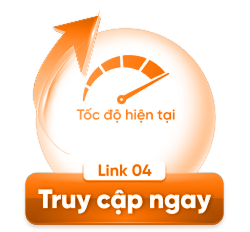
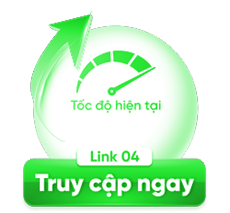
first commit

diff --git a/index.html b/index.html
@@ -5,8 +5,8 @@
     <meta charset="UTF-8">
     <meta name="viewport"
         content="width=device-width, initial-scale=1.0, maximum-scale=1.0, user-scalable=no, viewport-fit=cover">
-    <title>TRUNG TÂM CHUYỂN ĐỔI LINK</title>
-    <link rel="icon" type="image/svg+xml" href="./assets/images/300.png">
+    <title>YG88 - TRUNG TÂM CHUYỂN ĐỔI LINK</title>
+    <link rel="icon" type="image/svg+xml" href="./assets/images/logoyg88small.png">
 
     <link rel="stylesheet" href="./assets/css/reset.css">
     <link href="https://cdn.jsdelivr.net/npm/bootstrap@5.2.3/dist/css/bootstrap.min.css" rel="stylesheet">
@@ -33,12 +33,12 @@
 
                 <!-- Logo Company -->
                 <div class="logo-company">
-                    <img src="./assets/images/logo.png" alt="Logo">
+                    <img src="./assets/images/logoyg88.png" alt="Logo">
                 </div>
 
                 <!-- Title Text -->
                 <div class="title-text">
-                    <img src="./assets/images/title-text.png" alt="Title Text" class="img-fluid">
+                    <img src="./assets/images/text.png" alt="Title Text" class="img-fluid">
                 </div>
 
                 <!-- Main Content Layout -->
@@ -53,37 +53,37 @@
 
                             <!-- Speed Links Grid - PC -->
                             <div class="speed-links-grid pc-links">
-                                <a href="https://chuyenhuong.666888222.dev/pc" target="_blank" class="speed-link-item">
+                                <a href="/" class="speed-link-item">
                                     <div class="link-icon">
                                         <img src="./assets/images/link-1.png" alt="CHUYENLINK1">
                                         <div class="speed-meter">--- ms</div>
                                     </div>
                                 </a>
-                                <a href="https://chuyenhuong.666888222.dev/pc" target="_blank" class="speed-link-item">
+                                <a href="/" class="speed-link-item">
                                     <div class="link-icon">
                                         <img src="./assets/images/link-2.png" alt="CHUYENLINK2">
                                         <div class="speed-meter">--- ms</div>
                                     </div>
                                 </a>
-                                <a href="https://chuyenhuong.666888222.dev/pc" target="_blank" class="speed-link-item">
+                                <a href="/" class="speed-link-item">
                                     <div class="link-icon">
                                         <img src="./assets/images/link-3.png" alt="CHUYENLINK3">
                                         <div class="speed-meter">--- ms</div>
                                     </div>
                                 </a>
-                                <a href="https://chuyenhuong.666888222.dev/pc" target="_blank" class="speed-link-item">
+                                <a href="/" class="speed-link-item">
                                     <div class="link-icon">
                                         <img src="./assets/images/link-4.png" alt="CHUYENLINK4">
                                         <div class="speed-meter">--- ms</div>
                                     </div>
                                 </a>
-                                <a href="https://chuyenhuong.666888222.dev/pc" target="_blank" class="speed-link-item">
+                                <a href="/" class="speed-link-item">
                                     <div class="link-icon">
                                         <img src="./assets/images/link-5.png" alt="CHUYENLINK5">
                                         <div class="speed-meter">--- ms</div>
                                     </div>
                                 </a>
-                                <a href="https://chuyenhuong.666888222.dev/pc" target="_blank" class="speed-link-item">
+                                <a href="/" class="speed-link-item">
                                     <div class="link-icon">
                                         <img src="./assets/images/link-6.png" alt="CHUYENLINK6">
                                         <div class="speed-meter">--- ms</div>
@@ -93,37 +93,37 @@
 
                             <!-- Speed Links Grid - Mobile -->
                             <div class="speed-links-grid mobile-links">
-                                <a href="https://chuyenhuong.666888222.dev/mb" target="_blank" class="speed-link-item">
+                                <a href="/" class="speed-link-item">
                                     <div class="link-icon">
                                         <img src="./assets/images/link-1.png" alt="CHUYENLINK1">
                                         <div class="speed-meter">--- ms</div>
                                     </div>
                                 </a>
-                                <a href="https://chuyenhuong.666888222.dev/mb" target="_blank" class="speed-link-item">
+                                <a href="/" class="speed-link-item">
                                     <div class="link-icon">
                                         <img src="./assets/images/link-2.png" alt="CHUYENLINK2">
                                         <div class="speed-meter">--- ms</div>
                                     </div>
                                 </a>
-                                <a href="https://chuyenhuong.666888222.dev/mb" target="_blank" class="speed-link-item">
+                                <a href="/" class="speed-link-item">
                                     <div class="link-icon">
                                         <img src="./assets/images/link-3.png" alt="CHUYENLINK3">
                                         <div class="speed-meter">--- ms</div>
                                     </div>
                                 </a>
-                                <a href="https://chuyenhuong.666888222.dev/mb" target="_blank" class="speed-link-item">
+                                <a href="/" class="speed-link-item">
                                     <div class="link-icon">
                                         <img src="./assets/images/link-4.png" alt="CHUYENLINK4">
                                         <div class="speed-meter">--- ms</div>
                                     </div>
                                 </a>
-                                <a href="https://chuyenhuong.666888222.dev/mb" target="_blank" class="speed-link-item">
+                                <a href="/" class="speed-link-item">
                                     <div class="link-icon">
                                         <img src="./assets/images/link-5.png" alt="CHUYENLINK5">
                                         <div class="speed-meter">--- ms</div>
                                     </div>
                                 </a>
-                                <a href="https://chuyenhuong.666888222.dev/mb" target="_blank" class="speed-link-item">
+                                <a href="/" class="speed-link-item">
                                     <div class="link-icon">
                                         <img src="./assets/images/link-6.png" alt="CHUYENLINK6">
                                         <div class="speed-meter">--- ms</div>
@@ -136,13 +136,12 @@
                     <div class="left-section">
                         <!-- Banner Image -->
                         <div class="banner-image">
-                            <img src="./assets/images/mockj.png" alt="Banner" class="img-fluid">
+                            <img src="./assets/images/item-lef.png" alt="Banner" class="img-fluid">
                         </div>
 
                         <!-- Banner Text -->
                         <div class="banner-text">
-                            <p>Tải APP ngay truy cập nhanh hơn, mượt hơn<br>Giải trí mọi lúc mọi nơi không lo bị chặn
-                            </p>
+                            <img src="./assets/images/TEXT-2.png" alt="Nhà cái uy tín đến từ Châu Âu" class="img-fluid">
                         </div>
 
                         <!-- Download Section -->
@@ -166,13 +165,6 @@
                 <div class="wp-footer">
                     <div class="wp-footer-content">
                         <div class="wp-footer-text">
-                            <div class="br_right_bar" bis_skin_checked="1">
-                                <a href="https://gk88cskh.pages.dev" target="_blank" bis_skin_checked="1">
-                                    <div class="right-item" bis_skin_checked="1">
-                                        <img src="./assets/images/cskh.png" alt="CSKH" class="img-fluid">
-                                    </div>
-                                </a>
-                            </div>
                         </div>
                     </div>
 

diff --git a/assets/css/style.css b/assets/css/style.css
@@ -111,6 +111,13 @@ body {
     bottom: 0;
 }
 
+.banner-text img {
+    max-width: 90%;
+    height: auto;
+    display: block;
+    margin: 0 auto;
+}
+
 .banner-text p {
     color: #d80000;
     font-size: 1.3rem;
@@ -284,7 +291,7 @@ body {
         top: 40%;
         left: 50%;
         font-weight: 500;
-        color: #FF8C00;
+        color: #22b522;
     }
 
     .banner-image img {
@@ -390,8 +397,12 @@ body {
     }
 
     .banner-text {
-        margin: 10px 0;
+        margin: -10px 0;
         padding: 0 15px;
+    }
+
+    .banner-text img {
+        transform: translateY(-12px);
     }
 
     .banner-text p {
@@ -455,7 +466,7 @@ body {
 }
 
 .wp-banner {
-    background-image: url(./../images/1920X1080.png);
+    background-image: url(./../images/BG-PC.png);
     background-position: center center;
     background-size: cover;
     background-repeat: no-repeat;
@@ -711,7 +722,7 @@ a {
         top: 40%;
         left: 50%;
         font-weight: 500;
-        color: #FF8C00;
+        color: #22b522;
     }
 
     /* Banner styling */
@@ -857,6 +868,10 @@ a {
         padding: 10px 0 !important;
     }
 
+    .title-text img {
+        max-width: 45% !important;
+    }
+
     .speed-meter {
         font-size: 1.3rem !important;
     }
@@ -998,15 +1013,27 @@ a {
 }
 
 .br_right_bar .right-item {
-    width: 100%;
-    height: auto;
+    width: 115px;
+    height: 115px;
     gap: 4px;
     position: relative;
     transform: translate(-30px, 35px);
     cursor: pointer;
     border-radius: 50%;
-    box-shadow: inset 0 -3.55px 4.733px 0 rgba(0, 0, 0, .25);
+    background: transparent;
+    overflow: hidden;
+    box-shadow: none;
+    padding: 0;
+    box-sizing: border-box;
 
+}
+
+.br_right_bar .right-item img {
+    width: 100%;
+    height: 100%;
+    display: block;
+    border-radius: 50%;
+    object-fit: contain;
 }
 
 .br_right_bar .right-item .ellipse {
@@ -1343,7 +1370,7 @@ a {
         top: 50%;
         left: 50%;
         transform: translate(-50%, -50%);
-        color: #FF8C00;
+        color: #22b522;
         font-weight: bold;
         font-size: 1rem;
         text-align: center;
@@ -1408,7 +1435,10 @@ a {
     }
 
     .page-speed-image img {
-        min-height: 80px;
+        max-width: 80%;
+        min-height: auto;
+        margin: 0 auto;
+        display: block;
     }
 
     .speed-links-grid {
@@ -1464,7 +1494,10 @@ a {
     }
 
     .page-speed-image img {
-        min-height: 55px;
+        max-width: 80%;
+        min-height: auto;
+        margin: 0 auto;
+        display: block;
     }
 
     .speed-links-grid {
@@ -1502,7 +1535,10 @@ a {
     }
 
     .right-item img {
-        width: 50px;
+        width: 100%;
+        height: 100%;
+        border-radius: 50%;
+        object-fit: cover;
     }
 
     .wp-banner {
@@ -1587,7 +1623,11 @@ a {
         width: 100%;
         position: relative;
         bottom: auto;
-        margin-top: 10px;
+        margin-top: -10px;
+    }
+
+    .banner-text img {
+        transform: translateY(-12px);
     }
 
     .banner-text p {
@@ -1653,8 +1693,10 @@ a {
     }
 
     .br_right_bar .right-item {
-        width: 70px;
-        height: 70px;
+        width: 100px;
+        height: 100px;
+        background: transparent;
+        overflow: hidden;
     }
 
     .item-link .speed {
@@ -1807,7 +1849,7 @@ a {
     justify-content: center;
     font-size: 1rem;
     font-weight: bold;
-    color: #FF8C00;
+    color: #22b522;
     pointer-events: none;
     line-height: 0.8;
     z-index: 2;
